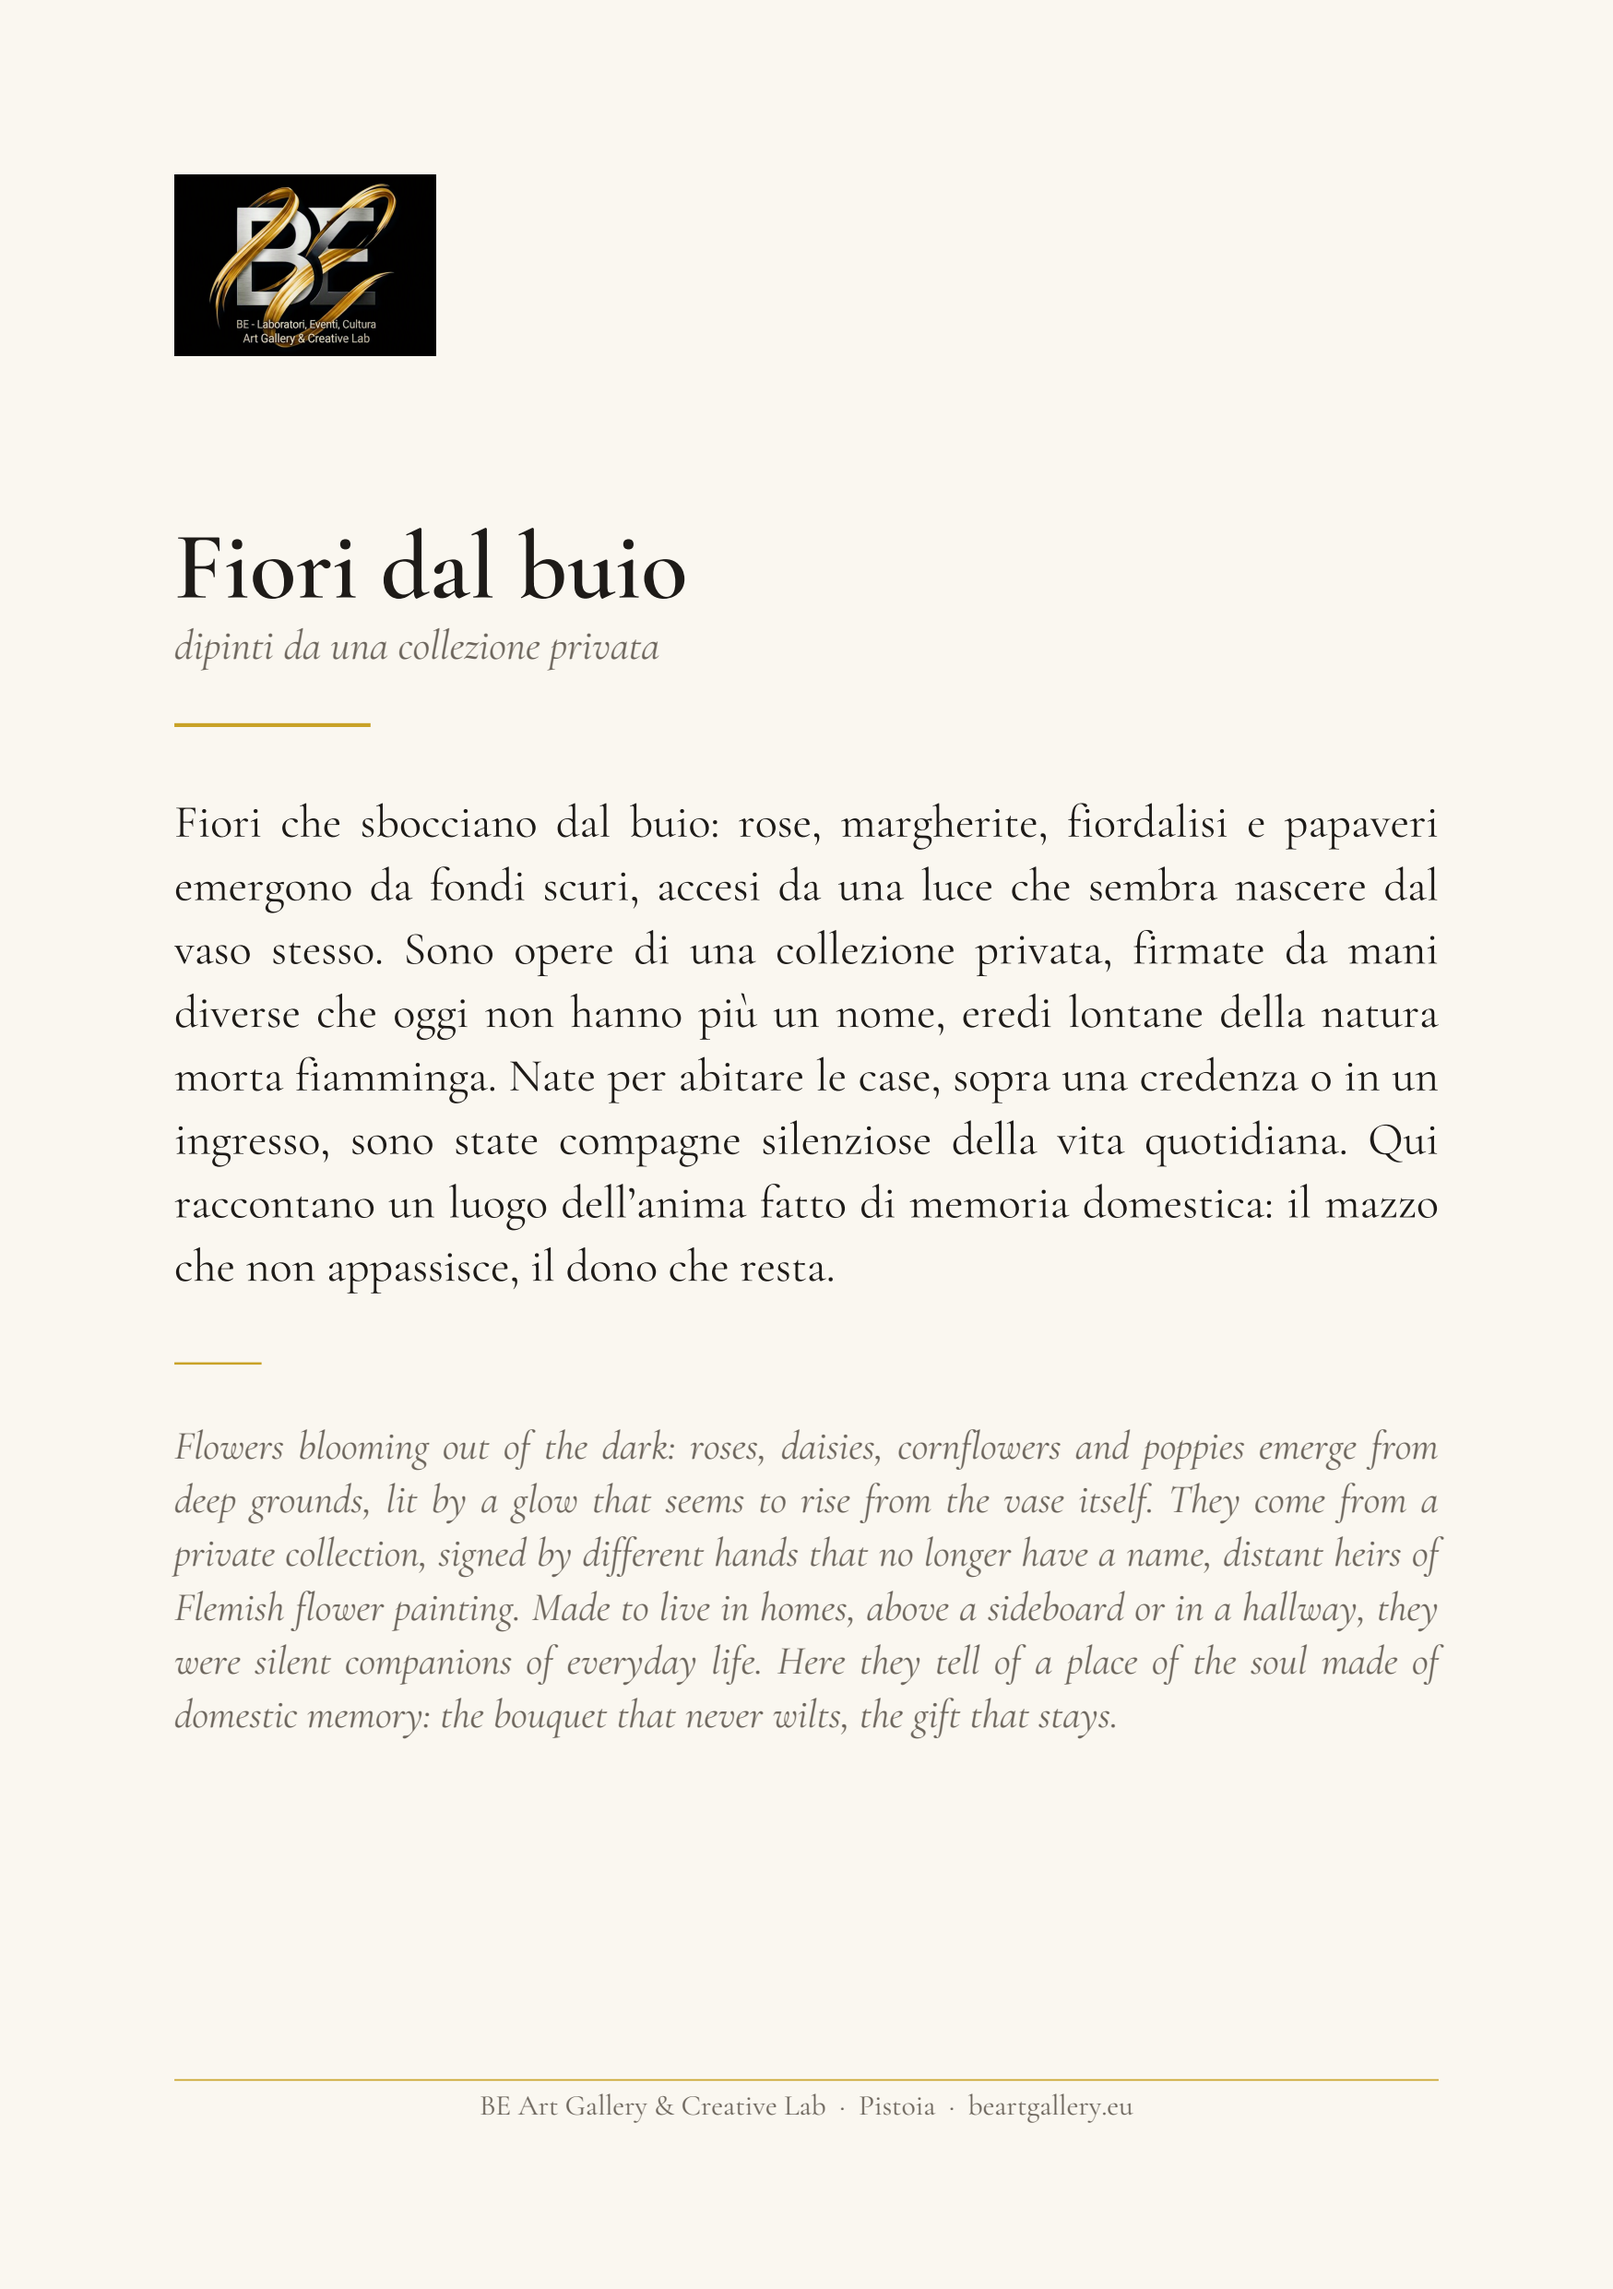
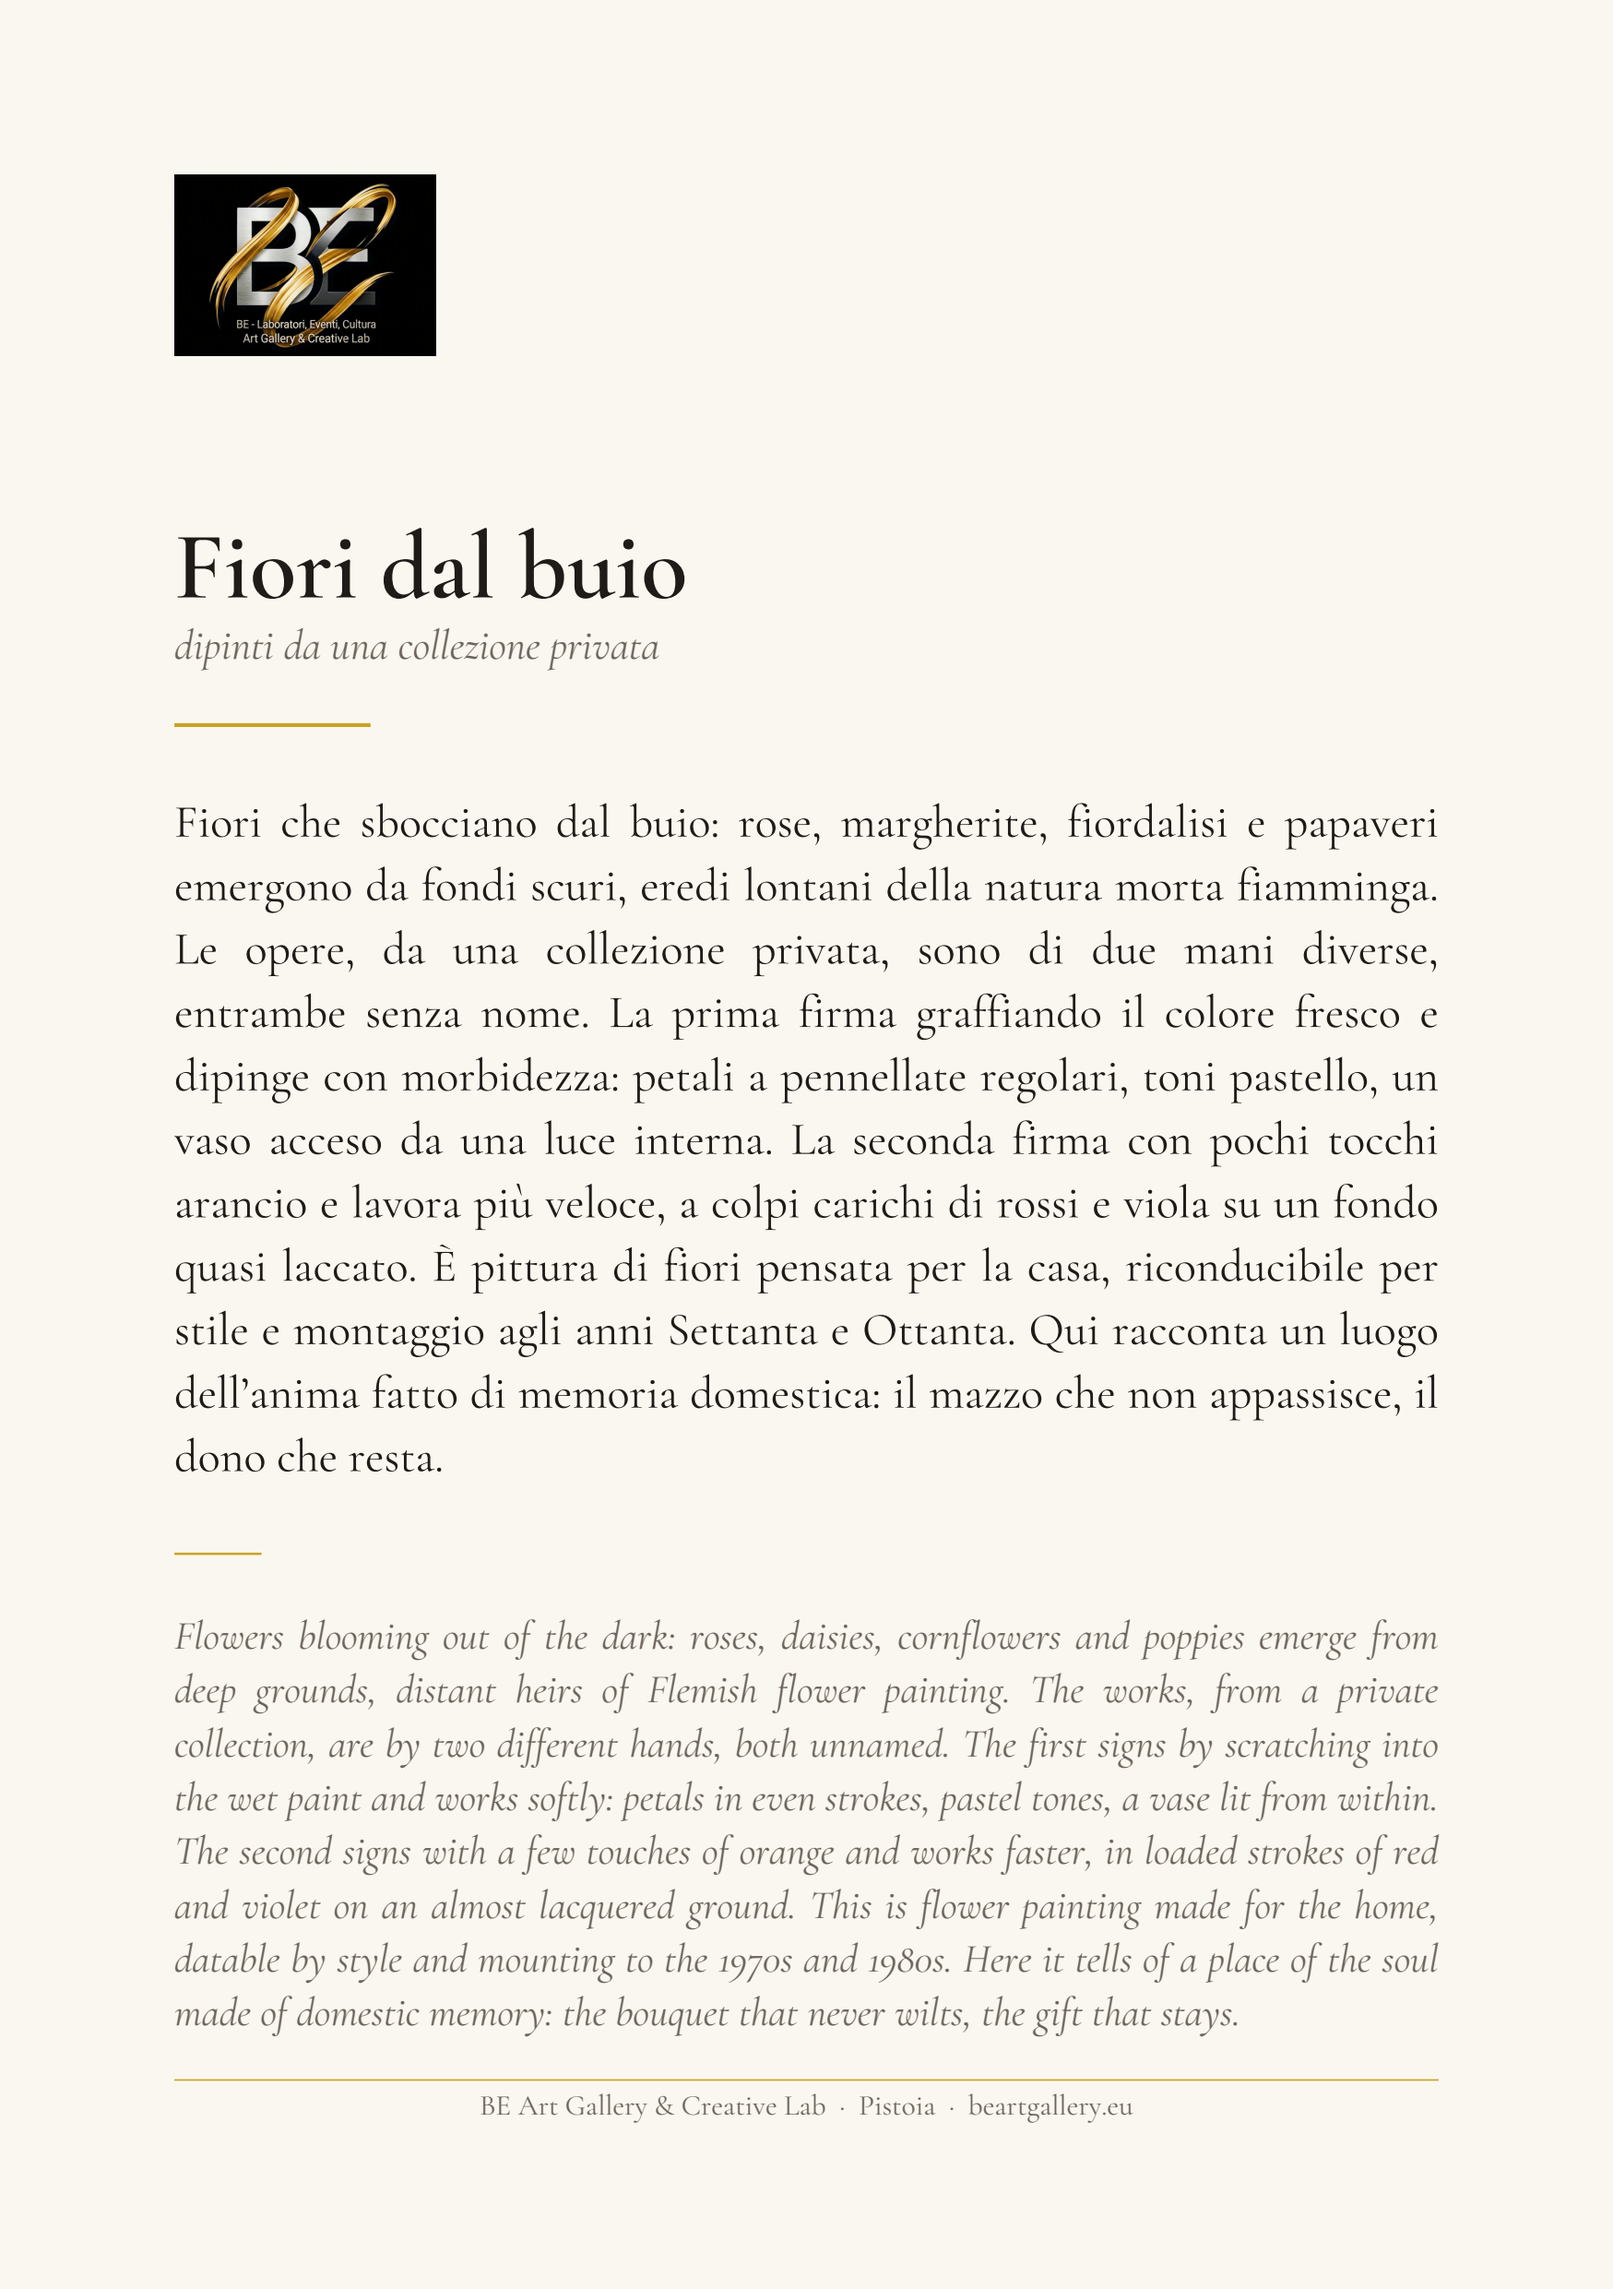
Arricchisce il testo di Fiori dal buio con le due mani e la datazione
Claude-Session: https://claude.ai/code/session_0148bZgqQiCtdshijf84M1Qp

diff --git a/testi-critici/artisti/collezione-privata-fiori/analisi.md b/testi-critici/artisti/collezione-privata-fiori/analisi.md
@@ -10,19 +10,23 @@
 | **Opere** | quattro nature morte di fiori in vaso, olio su fondo scuro, formati verticali stretti, incorniciate con passe-partout in tela |
 | **Provenienza** | collezione privata; secondo Elena, presumibilmente bacino veneto / rodigino — **non verificato** |
 | **Titolo della serie** | *Fiori dal buio* — proposta, da confermare |
-| **Stesura** | 8 ottobre 2026 · v1 |
+| **Stesura** | 8 ottobre 2026 · v2 |
 
 ---
 
 ## Presentazione della serie
 
-**Italiano** — _515 caratteri spazi inclusi_
+**Italiano** — _710 caratteri spazi inclusi_ · v2, con le due mani e la datazione. Supera i 600 della procedura: è il testo di una serie, non di un artista, e Elena ha chiesto i dettagli della ricerca
+
+> Fiori che sbocciano dal buio: rose, margherite, fiordalisi e papaveri emergono da fondi scuri, eredi lontani della natura morta fiamminga. Le opere, da una collezione privata, sono di due mani diverse, entrambe senza nome. La prima firma graffiando il colore fresco e dipinge con morbidezza: petali a pennellate regolari, toni pastello, un vaso acceso da una luce interna. La seconda firma con pochi tocchi arancio e lavora più veloce, a colpi carichi di rossi e viola su un fondo quasi laccato. È pittura di fiori pensata per la casa, riconducibile per stile e montaggio agli anni Settanta e Ottanta. Qui racconta un luogo dell'anima fatto di memoria domestica: il mazzo che non appassisce, il dono che resta.
+
+**English** — _691 characters_
+
+> Flowers blooming out of the dark: roses, daisies, cornflowers and poppies emerge from deep grounds, distant heirs of Flemish flower painting. The works, from a private collection, are by two different hands, both unnamed. The first signs by scratching into the wet paint and works softly: petals in even strokes, pastel tones, a vase lit from within. The second signs with a few touches of orange and works faster, in loaded strokes of red and violet on an almost lacquered ground. This is flower painting made for the home, datable by style and mounting to the 1970s and 1980s. Here it tells of a place of the soul made of domestic memory: the bouquet that never wilts, the gift that stays.
+
+**v1, più breve, senza dettagli** — 515 caratteri
 
 > Fiori che sbocciano dal buio: rose, margherite, fiordalisi e papaveri emergono da fondi scuri, accesi da una luce che sembra nascere dal vaso stesso. Sono opere di una collezione privata, firmate da mani diverse che oggi non hanno più un nome, eredi lontane della natura morta fiamminga. Nate per abitare le case, sopra una credenza o in un ingresso, sono state compagne silenziose della vita quotidiana. Qui raccontano un luogo dell'anima fatto di memoria domestica: il mazzo che non appassisce, il dono che resta.
-
-**English** — _505 characters_
-
-> Flowers blooming out of the dark: roses, daisies, cornflowers and poppies emerge from deep grounds, lit by a glow that seems to rise from the vase itself. They come from a private collection, signed by different hands that no longer have a name, distant heirs of Flemish flower painting. Made to live in homes, above a sideboard or in a hallway, they were silent companions of everyday life. Here they tell of a place of the soul made of domestic memory: the bouquet that never wilts, the gift that stays.
 
 **Variante breve per il pannello** — _189 caratteri_
 
